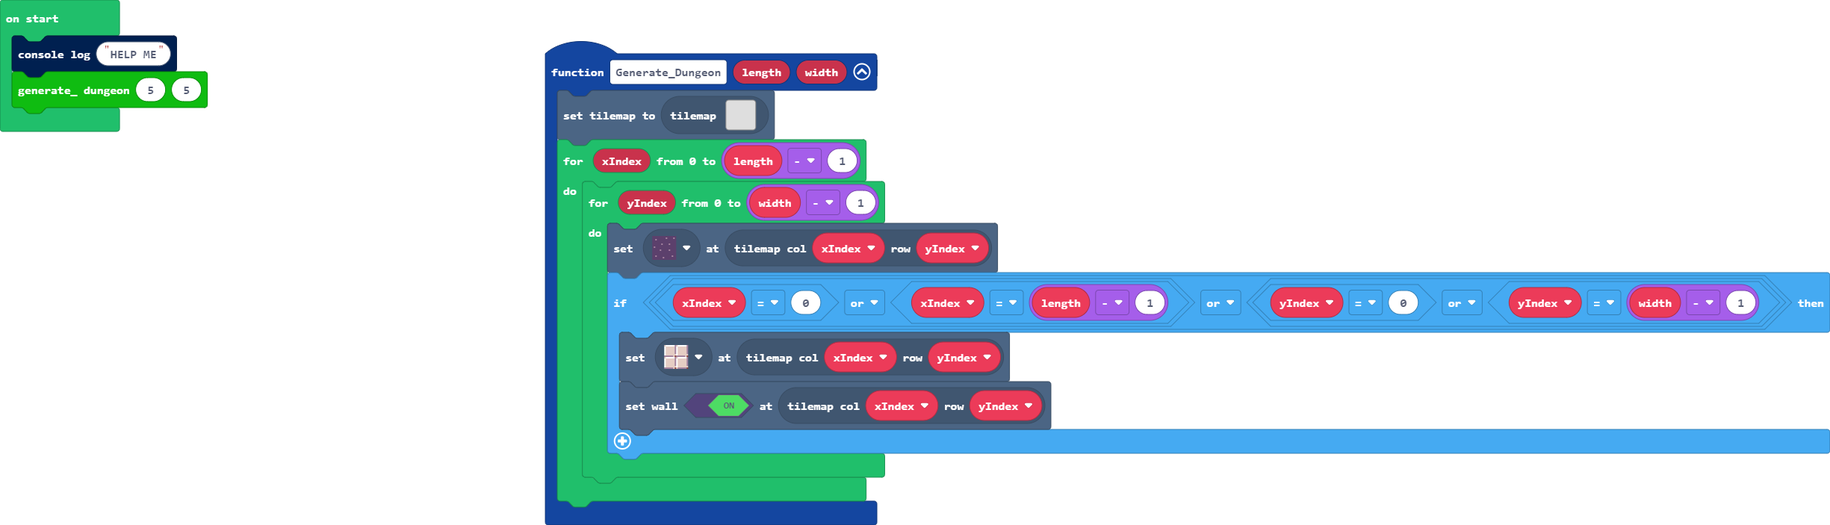
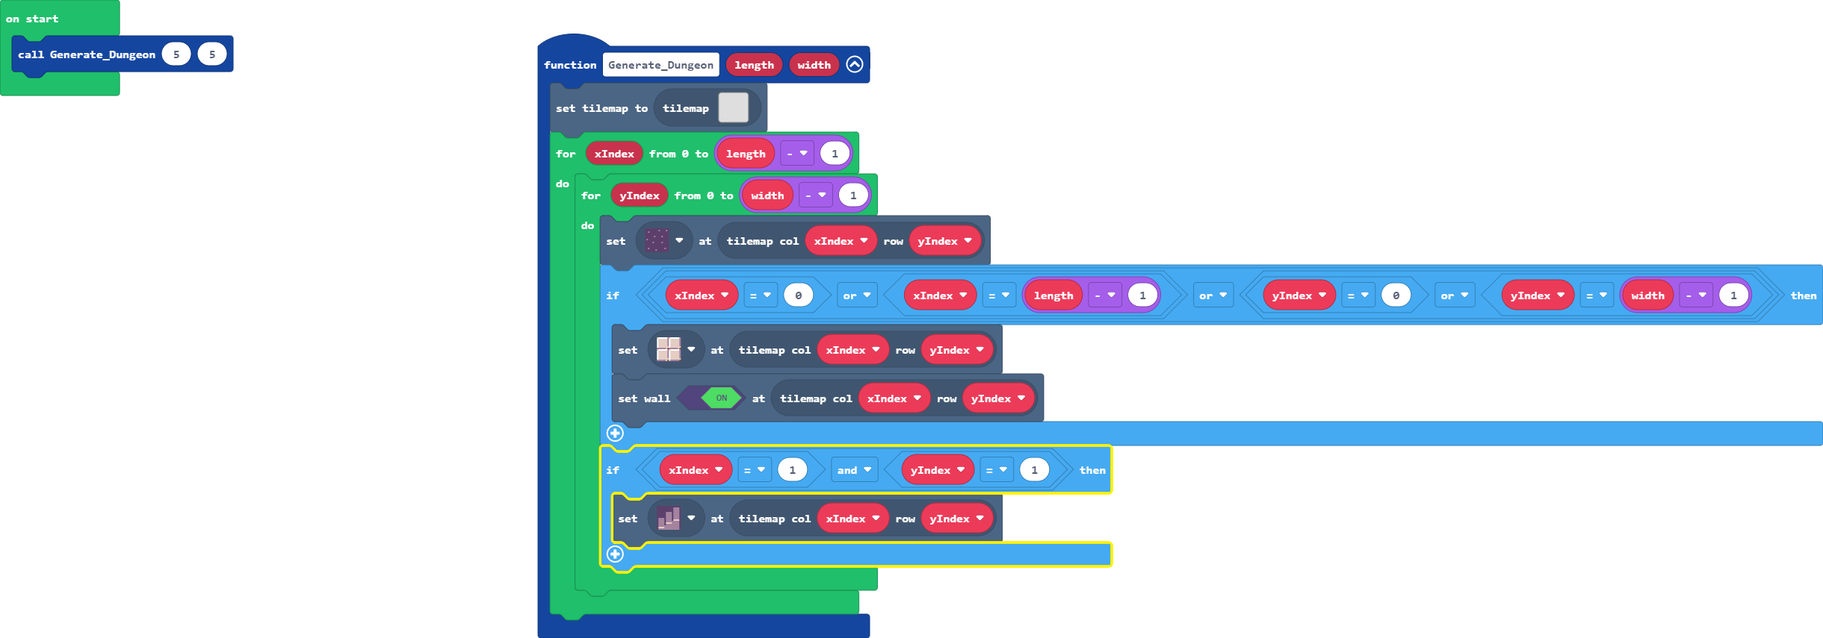
Added start pos

diff --git a/tilemap.g.ts b/tilemap.g.ts
@@ -63,7 +63,7 @@ namespace myTiles {
 . . . . . . . . . . . . . . . . 
 `, [myTiles.transparency16], TileScale.Sixteen);
             case "level1":
-            case "level1":return tiles.createTilemap(hex`6400640000000000000000000000000000000000000000000000000000000000000000000000000000000000000000000000000000000000000000000000000000000000000000000000000000000000000000000000000000000000000000000000000000000000000000000000000000000000000000000000000000000000000000000000000000000000000000000000000000000000000000000000000000000000000000000000000000000000000000000000000000000000000000000000000000000000000000000000000000000000000000000000000000000000000000000000000000000000000000000000000000000000000000000000000000000000000000000000000000000000000000000000000000000000000000000000000000000000000000000000000000000000000000000000000000000000000000000000000000000000000000000000000000000000000000000000000000000000000000000000000000000000000000000000000000000000000000000000000000000000000000000000000000000000000000000000000000000000000000000000000000000000000000000000000000000000000000000000000000000000000000000000000000000000000000000000000000000000000000000000000000000000000000000000000000000000000000000000000000000000000000000000000000000000000000000000000000000000000000000000000000000000000000000000000000000000000000000000000000000000000000000000000000000000000000000000000000000000000000000000000000000000000000000000000000000000000000000000000000000000000000000000000000000000000000000000000000000000000000000000000000000000000000000000000000000000000000000000000000000000000000000000000000000000000000000000000000000000000000000000000000000000000000000000000000000000000000000000000000000000000000000000000000000000000000000000000000000000000000000000000000000000000000000000000000000000000000000000000000000000000000000000000000000000000000000000000000000000000000000000000000000000000000000000000000000000000000000000000000000000000000000000000000000000000000000000000000000000000000000000000000000000000000000000000000000000000000000000000000000000000000000000000000000000000000000000000000000000000000000000000000000000000000000000000000000000000000000000000000000000000000000000000000000000000000000000000000000000000000000000000000000000000000000000000000000000000000000000000000000000000000000000000000000000000000000000000000000000000000000000000000000000000000000000000000000000000000000000000000000000000000000000000000000000000000000000000000000000000000000000000000000000000000000000000000000000000000000000000000000000000000000000000000000000000000000000000000000000000000000000000000000000000000000000000000000000000000000000000000000000000000000000000000000000000000000000000000000000000000000000000000000000000000000000000000000000000000000000000000000000000000000000000000000000000000000000000000000000000000000000000000000000000000000000000000000000000000000000000000000000000000000000000000000000000000000000000000000000000000000000000000000000000000000000000000000000000000000000000000000000000000000000000000000000000000000000000000000000000000000000000000000000000000000000000000000000000000000000000000000000000000000000000000000000000000000000000000000000000000000000000000000000000000000000000000000000000000000000000000000000000000000000000000000000000000000000000000000000000000000000000000000000000000000000000000000000000000000000000000000000000000000000000000000000000000000000000000000000000000000000000000000000000000000000000000000000000000000000000000000000000000000000000000000000000000000000000000000000000000000000000000000000000000000000000000000000000000000000000000000000000000000000000000000000000000000000000000000000000000000000000000000000000000000000000000000000000000000000000000000000000000000000000000000000000000000000000000000000000000000000000000000000000000000000000000000000000000000000000000000000000000000000000000000000000000000000000000000000000000000000000000000000000000000000000000000000000000000000000000000000000000000000000000000000000000000000000000000000000000000000000000000000000000000000000000000000000000000000000000000000000000000000000000000000000000000000000000000000000000000000000000000000000000000000000000000000000000000000000000000000000000000000000000000000000000000000000000000000000000000000000000000000000000000000000000000000000000000000000000000000000000000000000000000000000000000000000000000000000000000000000000000000000000000000000000000000000000000000000000000000000000000000000000000000000000000000000000000000000000000000000000000000000000000000000000000000000000000000000000000000000000000000000000000000000000000000000000000000000000000000000000000000000000000000000000000000000000000000000000000000000000000000000000000000000000000000000000000000000000000000000000000000000000000000000000000000000000000000000000000000000000000000000000000000000000000000000000000000000000000000000000000000000000000000000000000000000000000000000000000000000000000000000000000000000000000000000000000000000000000000000000000000000000000000000000000000000000000000000000000000000000000000000000000000000000000000000000000000000000000000000000000000000000000000000000000000000000000000000000000000000000000000000000000000000000000000000000000000000000000000000000000000000000000000000000000000000000000000000000000000000000000000000000000000000000000000000000000000000000000000000000000000000000000000000000000000000000000000000000000000000000000000000000000000000000000000000000000000000000000000000000000000000000000000000000000000000000000000000000000000000000000000000000000000000000000000000000000000000000000000000000000000000000000000000000000000000000000000000000000000000000000000000000000000000000000000000000000000000000000000000000000000000000000000000000000000000000000000000000000000000000000000000000000000000000000000000000000000000000000000000000000000000000000000000000000000000000000000000000000000000000000000000000000000000000000000000000000000000000000000000000000000000000000000000000000000000000000000000000000000000000000000000000000000000000000000000000000000000000000000000000000000000000000000000000000000000000000000000000000000000000000000000000000000000000000000000000000000000000000000000000000000000000000000000000000000000000000000000000000000000000000000000000000000000000000000000000000000000000000000000000000000000000000000000000000000000000000000000000000000000000000000000000000000000000000000000000000000000000000000000000000000000000000000000000000000000000000000000000000000000000000000000000000000000000000000000000000000000000000000000000000000000000000000000000000000000000000000000000000000000000000000000000000000000000000000000000000000000000000000000000000000000000000000000000000000000000000000000000000000000000000000000000000000000000000000000000000000000000000000000000000000000000000000000000000000000000000000000000000000000000000000000000000000000000000000000000000000000000000000000000000000000000000000000000000000000000000000000000000000000000000000000000000000000000000000000000000000000000000000000000000000000000000000000000000000000000000000000000000000000000000000000000000000000000000000000000000000000000000000000000000000000000000000000000000000000000000000000000000000000000000000000000000000000000000000000000000000000000000000000000000000000000000000000000000000000000000000000000000000000000000000000000000000000000000000000000000000000000000000000000000000000000000000000000000000000000000000000000000000000000000000000000000000000000000000000000000000000000000000000000000000000000000000000000000000000000000000000000000000000000000000000000000000000000000000000000000000000000000000000000000000000000000000000000000000000000000000000000000000000000000000000000000000000000000000000000000000000000000000000000000000000000000000000000000000000000000000000000000000000000000000000000000000000000000000000000000000000000000000000000000000000000000000000000000000000000000000000000000000000000000000000000000000000000000000000000000000000000000000000000000000000000000000000000000000000000000000000000000000000000000000000000000000000000000000000000000000000000000000000000000000000000000000000000000000000000000000000000000000000000000000000000000000000000000000000000000000000000000000000000000000000000000000000000000000000000000000000000000000000000000000000000000000000000000000000000000000000000000000000000000000000000000000000000000000000000000000000000000000000000000000000000000000000000000000000000000000000000000000000000000000000000000000000000000000000000000000000000000000000000000000000000000000000000000000000000000000000000000000000000000000000000000000000000000000000000000000000000000000000000000000000000000000000000000000000000000000000000000000000000000000000000000000000000000000000000000000000000000000000000000000000000000000000000000000000000000000000000000000000000000000000000000000000000000000000000000000000000000000000000000000000000000000000000000000000000000000000000000000000000000000000000000000000000000000000000000000000000000000000000000000000000000000000000000000000000000000000000000000000000000000000000000000000000000000000000000000000000000000000000000000000000000000000000000000000000000000000000000000000000000000000000000000000000000000000000000000000000000000000000000000000000000000000000000000000000000000000000000000000000000000000000000000000000000000000000000000000000000000000000000000000000000000000000000000000000000000000000000000000000000000000000000000000000000000000000000000000000000000000000000000000000000000000000000000000000000000000000000000000000000000000000000000000000000000000000000000000000000000000000000000000000000000000000000000000000000000000000000000000000000000000000000000000000000000000000000000000000000000000000000000000000000000000000000000000000000000000000000000000000000000000000000000000000000000000000000000000000000000000000000000000000000000000000000000000000000000000000000000000000000000000000000000000000000000000000000000000000000000000000000000000000000000000000000000000000000000000000000000000000000000000000000000000000000000000000000000000000000000000000000000000000000000000000000000000000000000000000000000000000000000000000000000000000000000000000000000000000000000000000000000000000000000000000000000000000000000000000000000000000000000000000000000000000000000000000000000000000000000000000000000000000000000000000000000000000000000000000000000000000000000000000000000000000000000000000000000000000000000000000000000000000000000000000000000000000000000000000000000000000000000000000000000000000000000000000000000000000000000000000000000000000000000000000000000000000000000000000000000000000000000000000000000000000000000000000000000000000000000000000000000000000000000000000000000000000000000000000000000000000000000000000000000000000000000000000000000000000000000000000000000000000000000000000000000000000000000000000000000000000000000000000000000000000000000000000000000000000000000000000000000000000000000000000000000000000000000000000000000000000000000000000000000000000000000000000000000000000000000000000000000000000000000000000000000000000000000000000000000000000000000000000000000000000000000000000000000000000000000000000000000000000000000000000000000000000000000000000000000000000000000000000000000000000000000000000000000000000000000000000000000000000000000000000000000000000000000000000000000000000000000000000000000000000000000000000000000000000000000000000000000000000000000000000000000000000000000000000000000000000000000000000000000000000000000000000000000000000000000000000000000000000000000000000000000000000000000000000000000000000000000000000000000000000000000000000000000000000000000000000000000000000000000000000000000000000000000000000000000000000000000000000000000000000000000000000000000000000000000000000000000000000000000000000000000000000000000000000000000000000000000000000000000000000000000000000000000000000000000000000000000000000000000000000000000000000000000000000000000000000000000000000000000000000000000000000000000000000000000000000000000000000000000000000000000000000000000000000000000000000000000000000000000000000000000000000000000000000000000000000000000000000000000000000000000000000000000000000000000000000000000000000000000000000000000000000000000000000000000000000000000000000000000000000000000000000000000000000000000000000000000000000000000000000000000000000000000000000000000000000000000000000000000000000000000000000000000000000000000000000000000000000000000000000000000000000000000000000000000000000000000000000000000000000000000000000000000000000000000000000000000000000000000000000000000000000000000000000000000000000000000000000000000000000000000000000000000000000000000000000000000000000000000000000000000000000000000000000000000000000000000000000000000000000000000000000000000000000000000000000000000000000000000000000000000000000000000000000000000000000000000000000000000000000000000000000000000000000000000000000000000000000000000000000000000000000000000000000000000000000000000000000000000000000000000000000000000000000000000000000000000000000000000000000000000000000000000000000000000000000000000000000000000000000000000000000000000000000000000000000000000000000000000000000000000000000000000000000000000000000000000000000000000000000000000000000000000000000000000000000000000000000000000000000000000000000000000000000000000000000000000000000000000000000000000000000000000000000000000000000000000000000000000000000000000000000000000000000000000000000000000000000000000000000000000000000000000000000000000000000000000000000000000000000000000000000000000000000000000000000000000000000000000000000000000000000000000000000000000000000000000000000000000000000000000000000000000000000000000000000000000000000000000000000000000000000000000000000000000000000000000000000000000000000000000000000000000000000000000000000000000000000000000000000000000000000000000000000000000000000000000000000000000000000000000000000000000000000000000000000000000000000000000000000000000000000000000000000000000000000000000000000000000000000000000000000000000000000000000000000000000000000000000000000000000000000000000000000000000000000000000000000000000000000000000000000000000000000000000000000000000000000000000000000000000000000000000000000000000000000000000000000000000000000000000000000000000000000000000000000000000000000000000000000000000000000000000000000000000000000000000000000000000000000000000000000000000000000000000000000000000000000000000000000000000000000000000000000000000000000000000000000000000000000000000000000000000000000000000000000000000000000000000000000000000000000000000000000000000000000000000000000000000000000000000000000000000000000000000000000000000000000000000000000000000000000000000000000000000000000000000000000000000000000000000000000000000000000000000000000000000000000000000000000000000000000000000000000000000000000000000000000000000000000000000000000000000000000000000000000000000000000000000000000000000000000000000000000000000000000000000000000000000000000000000000000000000000000000000000000000000000000000000000000000000000000000000000000000000000000000000000000000000000000000000000000000000000000000000000000000000000000000000000000000000000000000000000000000000000000000000000000000000000000000000000000000000000000000000000000000000000000000000000000000000000000000000000000000000000000000000000000000000000000000000000000000000000000000000000000000000000000000000000000000000000000000000000000000000000000000000000000000000000000000000000000000000000000000000000000000000000000000000000000000000000000000000000000000000000000000000000000000000000000000000000000000000000000000000000000000000000000000000000000000000000000000000000000000000000000000000000000000000000000000000000000000000000000000000000000000000000000000000000000000000000000000000000000000000000000000000000000000000000000000000000000000000000000000000000000000000000000000000000000000000000000000000000000000000000000000000000000000000000000000000000000000000000000000000000000000000000000000000000000000000000000000000000000000000000000000000000000000000000000000000000000000000000000000000000000000000000000000000000000000000000000000000000000000000000000000000000000000000000000000000000000000000000000000000000000000000000000000000000000000000000000000000000000000000000000000000000000000000000000000000000000000000000000000000000000000000000000000000000000000000000000000000000000000000000000000000000000000000000000000000000000000000000000000000000000000000000000000000000000000000000000000000000000000000000000000000000000000000000000000000000000000000000000000000000000000000000000000000000000000000000000000000000000000000000000000000000000000000000000000000000000000000000000000000000000000000000000000000000000000000000000000000000000000000000000000000000000000000000000000000000000000000000000000000000000000000000000000000000000000000000000000000000000000000000000000000000000000000000000000000000000000000000000000000000000000000000000000000000000000000000000000000000000000000000000000000000000000000000000000000000000000000000000000000000000000000000000000000000000000000000000000000000000000000000000000000000000000000000000000000000000000000000000000000000000000000000000000000000000000000000000000000000000000000000000000000000000000000000000000000000000000000000000000000000000000000000000000000000000000000000000000000000000000000000000000000000000000000000000000000000000000000000000000000000000000000000000000000000000000000000000000000000000000000000000000000000000000000000000000000000000000000000000000000000000000000000000000000000000000000000000000000000000000000000000000000000000000000000000000000000000000000000000000000000000000000000000000000000000000000000000000000000000000000000000000000000000000000000000000000000000000000000000000000000000000000000000000000000000000000000000000000000000000000000000000000000000000000000000000000000000000000000000000000000000000000000000000000000000000000000000000000000000000000000000000000000000000000000000000000000000000000000000000000000000000000000000000000000000000000000000000000000000000000000000000000000000000000000000000000000000000000000000000000000000000000000000000000000000000000000000000000000000000000000000000000000000000000000000000000000000000000000000000000000000000000000000000000000000000000000000000000000000000000000000000000000000000000000000000000000000000000000000000000000000000000000000000000000000000000000000000000000000000000000000000000000000000000000000000000000000000000000000000000000000000000000000000000000000000000000000000000000000000000000000000000000000000000000000000000000000000000000000000000000000000000000000000000000000000000000000000000000000000000000000000000000000000000000000000000000000000000000000000000000000000000000000000000000000000000000000000000000000000000000000000000000000000000000000000000000000000000000000000000000000000000000000000000000000000000000000000000000000000000000000000000000000000000000000000000000000000000000000000000000000000000000000000000000000000000000000000000000000000000000000000000000000000000000000000000000000000000000000000000000000000000000000000000000000000000000000000000000000000000000000000000000000000000000000000000000000000000000000000000000000000000000000000000000000000000000000000000000000000000000000000000000000000000000000000000000000000000000000000000000000000000000000000000000000000000000000000000000000000000000000000000000000000000000000000000000000000000000000000000000000000000000000000000000000000000000000000000000000000000000000000000000000000000000000000000000000000000000000000000000000000000000000000000000000000000000000000000000000000000000000000000000000000000000000000000000000000000000000000000000000000000000000000000000000000000000000000000000000000000000000000000000000000000000000000000000000000000000000000000000000000000000000000000000000000000000000000000000000000000000000000000000000000000000000000000000000000000000000000000000000000000000000000000000000000000000000000000000000000000000001020000000000000000000000000000000000000000000000000000000000000000000000000000000000000000000000000000000000000000000000000000000000000000000000000000000000000000000000000000000000000000000000000000`, img`
+            case "level1":return tiles.createTilemap(hex`6400640000000000000000000000000000000000000000000000000000000000000000000000000000000000000000000000000000000000000000000000000000000000000000000000000000000000000000000000000000000000000000000000000000000000000000000000000000000000000000000000000000000000000000000000000000000000000000000000000000000000000000000000000000000000000000000000000000000000000000000000000000000000000000000000000000000000000000000000000000000000000000000000000000000000000000000000000000000000000000000000000000000000000000000000000000000000000000000000000000000000000000000000000000000000000000000000000000000000000000000000000000000000000000000000000000000000000000000000000000000000000000000000000000000000000000000000000000000000000000000000000000000000000000000000000000000000000000000000000000000000000000000000000000000000000000000000000000000000000000000000000000000000000000000000000000000000000000000000000000000000000000000000000000000000000000000000000000000000000000000000000000000000000000000000000000000000000000000000000000000000000000000000000000000000000000000000000000000000000000000000000000000000000000000000000000000000000000000000000000000000000000000000000000000000000000000000000000000000000000000000000000000000000000000000000000000000000000000000000000000000000000000000000000000000000000000000000000000000000000000000000000000000000000000000000000000000000000000000000000000000000000000000000000000000000000000000000000000000000000000000000000000000000000000000000000000000000000000000000000000000000000000000000000000000000000000000000000000000000000000000000000000000000000000000000000000000000000000000000000000000000000000000000000000000000000000000000000000000000000000000000000000000000000000000000000000000000000000000000000000000000000000000000000000000000000000000000000000000000000000000000000000000000000000000000000000000000000000000000000000000000000000000000000000000000000000000000000000000000000000000000000000000000000000000000000000000000000000000000000000000000000000000000000000000000000000000000000000000000000000000000000000000000000000000000000000000000000000000000000000000000000000000000000000000000000000000000000000000000000000000000000000000000000000000000000000000000000000000000000000000000000000000000000000000000000000000000000000000000000000000000000000000000000000000000000000000000000000000000000000000000000000000000000000000000000000000000000000000000000000000000000000000000000000000000000000000000000000000000000000000000000000000000000000000000000000000000000000000000000000000000000000000000000000000000000000000000000000000000000000000000000000000000000000000000000000000000000000000000000000000000000000000000000000000000000000000000000000000000000000000000000000000000000000000000000000000000000000000000000000000000000000000000000000000000000000000000000000000000000000000000000000000000000000000000000000000000000000000000000000000000000000000000000000000000000000000000000000000000000000000000000000000000000000000000000000000000000000000000000000000000000000000000000000000000000000000000000000000000000000000000000000000000000000000000000000000000000000000000000000000000000000000000000000000000000000000000000000000000000000000000000000000000000000000000000000000000000000000000000000000000000000000000000000000000000000000000000000000000000000000000000000000000000000000000000000000000000000000000000000000000000000000000000000000000000000000000000000000000000000000000000000000000000000000000000000000000000000000000000000000000000000000000000000000000000000000000000000000000000000000000000000000000000000000000000000000000000000000000000000000000000000000000000000000000000000000000000000000000000000000000000000000000000000000000000000000000000000000000000000000000000000000000000000000000000000000000000000000000000000000000000000000000000000000000000000000000000000000000000000000000000000000000000000000000000000000000000000000000000000000000000000000000000000000000000000000000000000000000000000000000000000000000000000000000000000000000000000000000000000000000000000000000000000000000000000000000000000000000000000000000000000000000000000000000000000000000000000000000000000000000000000000000000000000000000000000000000000000000000000000000000000000000000000000000000000000000000000000000000000000000000000000000000000000000000000000000000000000000000000000000000000000000000000000000000000000000000000000000000000000000000000000000000000000000000000000000000000000000000000000000000000000000000000000000000000000000000000000000000000000000000000000000000000000000000000000000000000000000000000000000000000000000000000000000000000000000000000000000000000000000000000000000000000000000000000000000000000000000000000000000000000000000000000000000000000000000000000000000000000000000000000000000000000000000000000000000000000000000000000000000000000000000000000000000000000000000000000000000000000000000000000000000000000000000000000000000000000000000000000000000000000000000000000000000000000000000000000000000000000000000000000000000000000000000000000000000000000000000000000000000000000000000000000000000000000000000000000000000000000000000000000000000000000000000000000000000000000000000000000000000000000000000000000000000000000000000000000000000000000000000000000000000000000000000000000000000000000000000000000000000000000000000000000000000000000000000000000000000000000000000000000000000000000000000000000000000000000000000000000000000000000000000000000000000000000000000000000000000000000000000000000000000000000000000000000000000000000000000000000000000000000000000000000000000000000000000000000000000000000000000000000000000000000000000000000000000000000000000000000000000000000000000000000000000000000000000000000000000000000000000000000000000000000000000000000000000000000000000000000000000000000000000000000000000000000000000000000000000000000000000000000000000000000000000000000000000000000000000000000000000000000000000000000000000000000000000000000000000000000000000000000000000000000000000000000000000000000000000000000000000000000000000000000000000000000000000000000000000000000000000000000000000000000000000000000000000000000000000000000000000000000000000000000000000000000000000000000000000000000000000000000000000000000000000000000000000000000000000000000000000000000000000000000000000000000000000000000000000000000000000000000000000000000000000000000000000000000000000000000000000000000000000000000000000000000000000000000000000000000000000000000000000000000000000000000000000000000000000000000000000000000000000000000000000000000000000000000000000000000000000000000000000000000000000000000000000000000000000000000000000000000000000000000000000000000000000000000000000000000000000000000000000000000000000000000000000000000000000000000000000000000000000000000000000000000000000000000000000000000000000000000000000000000000000000000000000000000000000000000000000000000000000000000000000000000000000000000000000000000000000000000000000000000000000000000000000000000000000000000000000000000000000000000000000000000000000000000000000000000000000000000000000000000000000000000000000000000000000000000000000000000000000000000000000000000000000000000000000000000000000000000000000000000000000000000000000000000000000000000000000000000000000000000000000000000000000000000000000000000000000000000000000000000000000000000000000000000000000000000000000000000000000000000000000000000000000000000000000000000000000000000000000000000000000000000000000000000000000000000000000000000000000000000000000000000000000000000000000000000000000000000000000000000000000000000000000000000000000000000000000000000000000000000000000000000000000000000000000000000000000000000000000000000000000000000000000000000000000000000000000000000000000000000000000000000000000000000000000000000000000000000000000000000000000000000000000000000000000000000000000000000000000000000000000000000000000000000000000000000000000000000000000000000000000000000000000000000000000000000000000000000000000000000000000000000000000000000000000000000000000000000000000000000000000000000000000000000000000000000000000000000000000000000000000000000000000000000000000000000000000000000000000000000000000000000000000000000000000000000000000000000000000000000000000000000000000000000000000000000000000000000000000000000000000000000000000000000000000000000000000000000000000000000000000000000000000000000000000000000000000000000000000000000000000000000000000000000000000000000000000000000000000000000000000000000000000000000000000000000000000000000000000000000000000000000000000000000000000000000000000000000000000000000000000000000000000000000000000000000000000000000000000000000000000000000000000000000000000000000000000000000000000000000000000000000000000000000000000000000000000000000000000000000000000000000000000000000000000000000000000000000000000000000000000000000000000000000000000000000000000000000000000000000000000000000000000000000000000000000000000000000000000000000000000000000000000000000000000000000000000000000000000000000000000000000000000000000000000000000000000000000000000000000000000000000000000000000000000000000000000000000000000000000000000000000000000000000000000000000000000000000000000000000000000000000000000000000000000000000000000000000000000000000000000000000000000000000000000000000000000000000000000000000000000000000000000000000000000000000000000000000000000000000000000000000000000000000000000000000000000000000000000000000000000000000000000000000000000000000000000000000000000000000000000000000000000000000000000000000000000000000000000000000000000000000000000000000000000000000000000000000000000000000000000000000000000000000000000000000000000000000000000000000000000000000000000000000000000000000000000000000000000000000000000000000000000000000000000000000000000000000000000000000000000000000000000000000000000000000000000000000000000000000000000000000000000000000000000000000000000000000000000000000000000000000000000000000000000000000000000000000000000000000000000000000000000000000000000000000000000000000000000000000000000000000000000000000000000000000000000000000000000000000000000000000000000000000000000000000000000000000000000000000000000000000000000000000000000000000000000000000000000000000000000000000000000000000000000000000000000000000000000000000000000000000000000000000000000000000000000000000000000000000000000000000000000000000000000000000000000000000000000000000000000000000000000000000000000000000000000000000000000000000000000000000000000000000000000000000000000000000000000000000000000000000000000000000000000000000000000000000000000000000000000000000000000000000000000000000000000000000000000000000000000000000000000000000000000000000000000000000000000000000000000000000000000000000000000000000000000000000000000000000000000000000000000000000000000000000000000000000000000000000000000000000000000000000000000000000000000000000000000000000000000000000000000000000000000000000000000000000000000000000000000000000000000000000000000000000000000000000000000000000000000000000000000000000000000000000000000000000000000000000000000000000000000000000000000000000000000000000000000000000000000000000000000000000000000000000000000000000000000000000000000000000000000000000000000000000000000000000000000000000000000000000000000000000000000000000000000000000000000000000000000000000000000000000000000000000000000000000000000000000000000000000000000000000000000000000000000000000000000000000000000000000000000000000000000000000000000000000000000000000000000000000000000000000000000000000000000000000000000000000000000000000000000000000000000000000000000000000000000000000000000000000000000000000000000000000000000000000000000000000000000000000000000000000000000000000000000000000000000000000000000000000000000000000000000000000000000000000000000000000000000000000000000000000000000000000000000000000000000000000000000000000000000000000000000000000000000000000000000000000000000000000000000000000000000000000000000000000000000000000000000000000000000000000000000000000000000000000000000000000000000000000000000000000000000000000000000000000000000000000000000000000000000000000000000000000000000000000000000000000000000000000000000000000000000000000000000000000000000000000000000000000000000000000000000000000000000000000000000000000000000000000000000000000000000000000000000000000000000000000000000000000000000000000000000000000000000000000000000000000000000000000000000000000000000000000000000000000000000000000000000000000000000000000000000000000000000000000000000000000000000000000000000000000000000000000000000000000000000000000000000000000000000000000000000000000000000000000000000000000000000000000000000000000000000000000000000000000000000000000000000000000000000000000000000000000000000000000000000000000000000000000000000000000000000000000000000000000000000000000000000000000000000000000000000000000000000000000000000000000000000000000000000000000000000000000000000000000000000000000000000000000000000000000000000000000000000000000000000000000000000000000000000000000000000000000000000000000000000000000000000000000000000000000000000000000000000000000000000000000000000000000000000000000000000000000000000000000000000000000000000000000000000000000000000000000000000000000000000000000000000000000000000000000000000000000000000000000000000000000000000000000000000000000000000000000000000000000000000000000000000000000000000000000000000000000000000000000000000000000000000000000000000000000000000000000000000000000000000000000000000000000000000000000000000000000000000000000000000000000000000000000000000000000000000000000000000000000000000000000000000000000000000000000000000000000000000000000000000000000000000000000000000000000000000000000000000000000000000000000000000000000000000000000000000000000000000000000000000000000000000000000000000000000000000000000000000000000000000000000000000000000000000000000000000000000000000000000000000000000000000000000000000000000000000000000000000000000000000000000000000000000000000000000000000000000000000000000000000000000000000000000000000000000000000000000000000000000000000000000000000000000000000000000000000000000000000000000000000000000000000000000000000000000000000000000000000000000000000000000000000000000000000000000000000000000000000000000000000000000000000000000000000000000000000000000000000000000000000000000000000000000000000000000000000000000000000000000000000000000000000000000000000000000000000000000000000000000000000000000000000000000000000000000000000000000000000000000000000000000000000000000000000000000000000000000000000000000000000000000000000000000000000000000000000000000000000000000000000000000000000000000000000000000000000000000000000000000000000000000000000000000000000000000000000000000000000000000000000000000000000000000000000000000000000000000000000000000000000000000000000000000000000000000000000000000000000000000000000000000000000000000000000000000000000000000000000000000000000000000000000000000000000000000000000000000000000000000000000000000000000000000000000000000000000000000000000000000000000000000000000000000000000000000000000000000000000000000000000000000000000000000000000000000000000000000000000000000000000000000000000000000000000000000000000000000000000000000000000000000000000000000000000000000000000000000000000000000000000000000000000000000000000000000000000000000000000000000000000000000000000000000000000000000000000000000000000000000000000000000000000000000000000000000000000000000000000000000000000000000000000000000000000000000000000000000000000000000000000000000000000000000000000000000000000000000000000000000000000000000000000000000000000000000000000000000000000000000000000000000000000000000000000000000000000000000000000000000000000000000000000000000000000000000000000000000000000000000000000000000000000000000000000000000000000000000000000000000000000000000000000000000000000000000000000000000000000000000000000000000000000000000000000000000000000000000000000000000000000000000000000000000000000000000000000000000000000000000000000000000000000000000000000000000000000000000000000000000000000000000000000000000000000000000000000000000000000000000000000000000000000000000000000000000000000000000000000000000000000000000000000000000000000000000000000000000000000000000000000000000000000000000000000000000000000000000000000000000000000000000000000000000000000000000000000000000000000000000000000000000000000000000000000000000000000000000000000000000000000000000000000000000000000000000000000000000000000000000000000000000000000000000000000000000000000000000000000000000000000000000000000000000000000000000000000000000000000000000000000000000000000000000000000000000000000000000000000000000000000000000000000000000000000000000000000000000000000000000000000000000000000000000000000000000000000000000000000000000000000000000000000000000000000000000000000000000000000000000000000000000000000000000000000000000000000000000000000000000000000000000000000000000000000000000000000000000000000000000000000000000000000000000000000000000000000000000000000000000000000000000000000000000000000000000000000000000000000000000000000000000000000000000000000000000000000000000000000000000000000000000000000000000000000000000000000000000000000000000000000000000000000000000000000000000000000000000000000000000000000000000000000000000000000000000000000000000000000000000000000000000000000000000000000000000000000000000000000000000000000000000000000000000000000000000000000000000000000000000000000000000000000000000000000000000000000000000000000000000000000000000000000000000000000000000000000000000000000000000000000000000000000000000000000000000000000000000000000000000000000000000000000000000000000000000000000000000000000000000000000000000000000000000000000000000000000000000000000000000000000000000000000000000000000000000000000000000000000000000000000000000000000000000000000000000000000000000000000000000000000000000000000000000000000000000000000000000000000000000000000000000000000000000000000000000000000000000000000000000000000000000000000000000000000000000000000000000000000000000000000000000000000000000000000000000000000000000000000000000000000000000000000000000000000000000000000000000000000000000000000000000000000000000000000000000000000000000000000000000000000000000000000000000000000000000000000000000000000000000000000000000000000000000000000000000000000000000000000000000000000000000000000000000000000000000000000000000000000000000000000000000000000000000000000000000000000000000000000000000000000000000000000000000000000000000000000000000000000000000000000000000000000000000000000000000000000000000000000000000000000000000000000000000000000000000000000000000000000000000000000000000000000000000000000000000000000000000000000000000000000000000000000000000000000000000000000000000000000000000000000000000000000000000000000000000000000000000000000000000000000000000000000000000000000000000000000000000000000000000000000000000000000000000000000000000000000000000000000000000000000000000000000000000000000000000000000000000000000000000000000000000000000000000000000000000000000000000000000000000000000000000000000000000000000000000000000000000000000000000000000000000000000000000000000000000000000000000000000000000000000000000000000000000000000000000000000000000000000000000000000000000000000000000000000000000000000000000000000000000000000000000000000000000000000000000000000000000000000000000000000000000000000000000000000000000000000000000000000000000000000000000000000000000000000000000000000000000000000000000000000000000000000000000000000000000000000000000000000000000000000000000000000000000000000000000000000000000000000000000000000000000000000000000000000000000000000000000000000000000000000000000000000000000000000000000000000000000000000000000000000000000000000000000000000000000000000000000000000000000000000000000000000000000000000000000000000000000000000000000000000000000000000000000000000000000000000000000000000001020403000000000000000000000000000000000000000000000000000000000000000000000000000000000000000000000000000000000000000000000000000000000000000000000000000000000000000000000000000000000000000000000000`, img`
 ....................................................................................................
 ....................................................................................................
 ....................................................................................................
@@ -164,7 +164,26 @@ namespace myTiles {
 ....................................................................................................
 ....................................................................................................
 ....................................................................................................
-`, [myTiles.transparency16,sprites.dungeon.floorLight0,sprites.dungeon.darkGroundCenter], TileScale.Sixteen);
+`, [myTiles.transparency16,sprites.dungeon.floorLight0,sprites.dungeon.darkGroundCenter,sprites.dungeon.collectibleInsignia,sprites.dungeon.stairLarge], TileScale.Sixteen);
+            case "level5":
+            case "level5":return tiles.createTilemap(hex`1000100000000000000000000000000000000000000000000000000000000000000000000000000000000000000000000000000000000000000000000000000000000000000000000000000000000000000000000000000000000000000000000000000000000000000000000000000000000000000000000000000000000000000000000000000000000000000000000000000000000000000000000000000000000000000000000000000000000000000000000000000000000000000000000000000000000000000000000000000000000000000000000000000000000000000000000000000000000000000000000000000000000000000000000000000000000000`, img`
+. . . . . . . . . . . . . . . . 
+. . . . . . . . . . . . . . . . 
+. . . . . . . . . . . . . . . . 
+. . . . . . . . . . . . . . . . 
+. . . . . . . . . . . . . . . . 
+. . . . . . . . . . . . . . . . 
+. . . . . . . . . . . . . . . . 
+. . . . . . . . . . . . . . . . 
+. . . . . . . . . . . . . . . . 
+. . . . . . . . . . . . . . . . 
+. . . . . . . . . . . . . . . . 
+. . . . . . . . . . . . . . . . 
+. . . . . . . . . . . . . . . . 
+. . . . . . . . . . . . . . . . 
+. . . . . . . . . . . . . . . . 
+. . . . . . . . . . . . . . . . 
+`, [myTiles.transparency16], TileScale.Sixteen);
         }
         return null;
     })

diff --git a/custom.ts b/custom.ts
@@ -26,16 +26,10 @@ namespace dungeons {
                     tiles.setTileAt(tiles.getTileLocation(xIndex, yIndex), sprites.dungeon.floorLight0)
                     tiles.setWallAt(tiles.getTileLocation(xIndex, yIndex), true)
                 }
+                if (xIndex == 1 && yIndex == 1) {
+                    tiles.setTileAt(tiles.getTileLocation(xIndex, yIndex), sprites.dungeon.stairLarge)
+                }
             }
         }
-    }
-
-    /**
-     * TODO: describe your function here
-     * @param value describe value here, eg: 5
-     */
-    //% block
-    export function fib(value: number): number {
-        return value <= 1 ? value : fib(value -1) + fib(value - 2);
     }
 }
